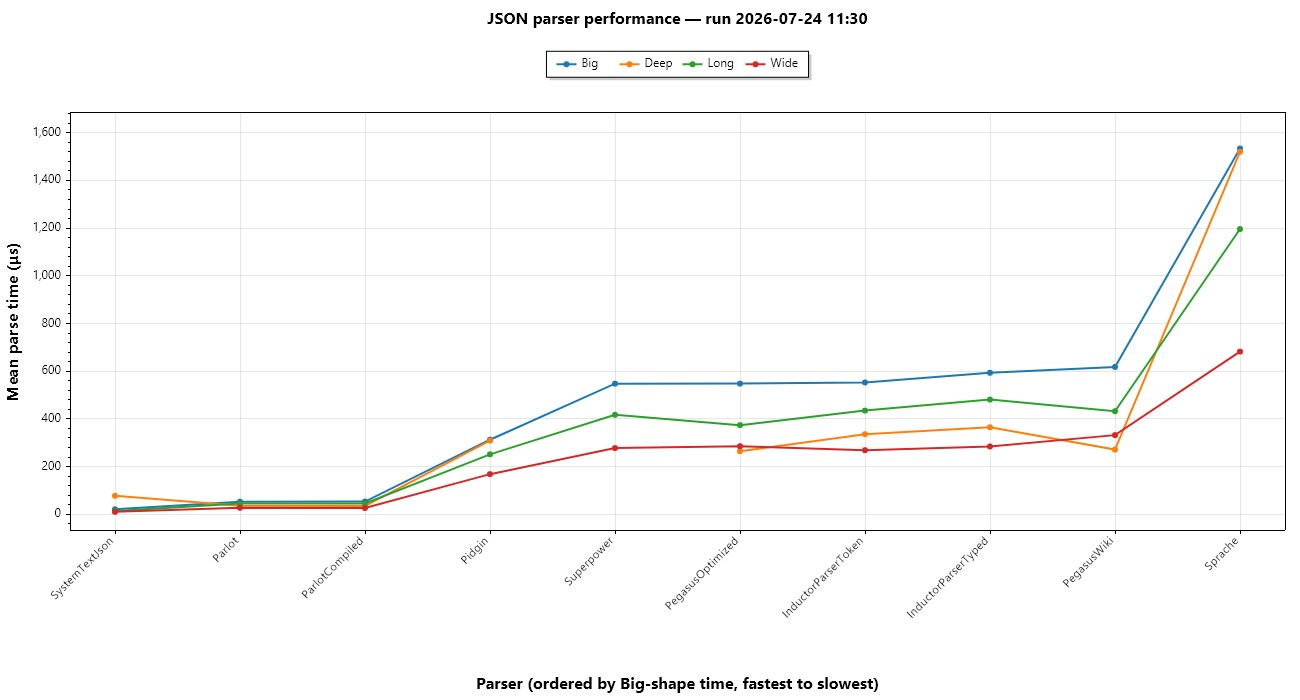
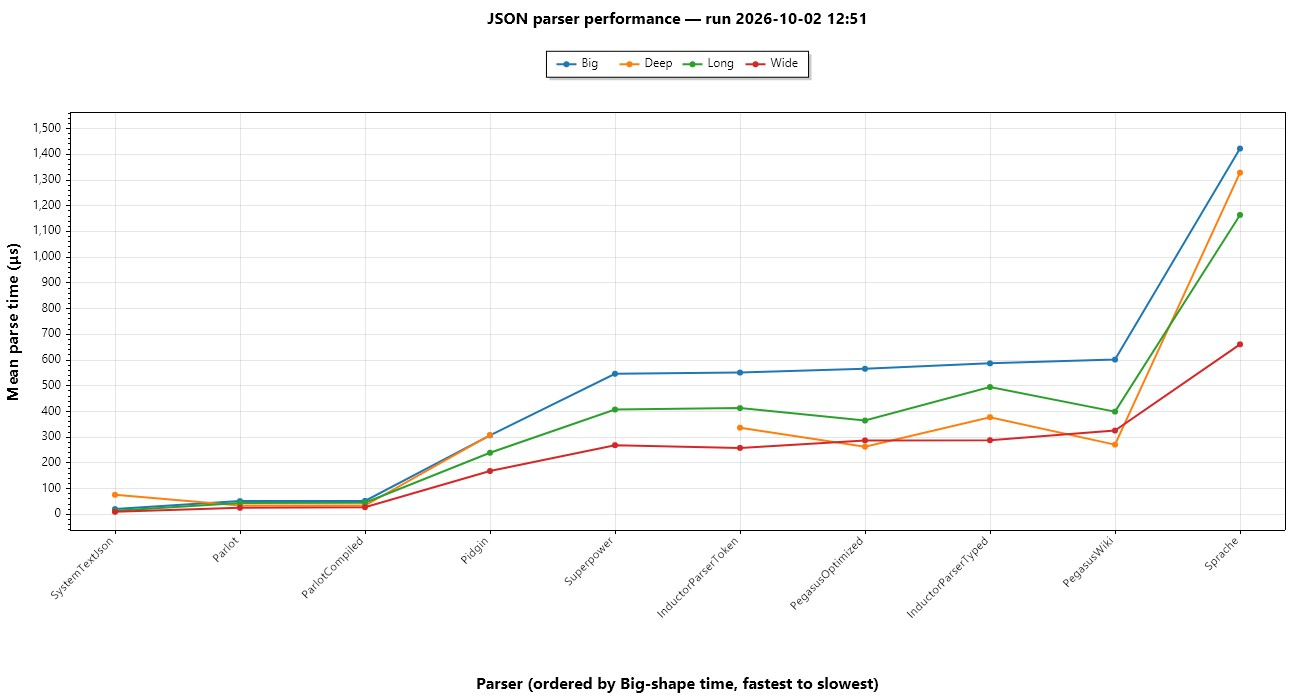
Spec: benchmark chart rerun, write-up moves to the end of the nav, doc links
The JSON benchmark chart was last generated in July. This rerun on the
same Arm64 machine and .NET 10 lands within noise of the README's
baseline table (Big InductorParserToken 551 vs 553 us, STJ 20.8 vs 20.6
us), so the table stays as the regression reference the README says it
is and only the chart's data and timestamp move. The spot-check passed
before the run, so every row times a full-input parse. One row,
BigJson_PegasusOptimized, came back with an error margin as large as
its mean (566 +/- 566 us), which is ShortRun noise rather than a real
change and only swaps it one place with InductorParserToken in the
chart's ordering.

How I Built This moves from before the API entry to the far right of
the top navigation, after GitHub, so the docs navigation reads guides,
reference, architecture, API, and then the two outward links.

Three docs gain a link where they named something without pointing at
it: Unicode Internals' Position Tracking section now says every unit
points into the original input and links the position mapping doc,
Code Architecture links the C++ template library it says the port
started from, and Unicode Gotchas links UAX #31 where it introduces it.

diff --git a/src/Benchmarks/performance-chart.html b/src/Benchmarks/performance-chart.html
@@ -17,7 +17,7 @@
 <body>
 
 <h1>JSON parser performance by shape</h1>
-<div class="subtitle">Mean parse time in microseconds. Lower is better. BenchmarkDotNet ShortRun, .NET 10 on Arm64. Four lines, one per input shape (Big, Deep, Long, Wide). Regenerated automatically on every benchmark run. <strong>Run: 2026-07-24 11:30</strong></div>
+<div class="subtitle">Mean parse time in microseconds. Lower is better. BenchmarkDotNet ShortRun, .NET 10 on Arm64. Four lines, one per input shape (Big, Deep, Long, Wide). Regenerated automatically on every benchmark run. <strong>Run: 2026-10-02 12:51</strong></div>
 
 <div class="chart-wrapper">
   <canvas id="chart"></canvas>
@@ -42,8 +42,8 @@ const labels = [
   "ParlotCompiled",
   "Pidgin",
   "Superpower",
-  "PegasusOptimized",
   "InductorParserToken",
+  "PegasusOptimized",
   "InductorParserTyped",
   "PegasusWiki",
   "Sprache"
@@ -54,7 +54,7 @@ const data = {
   datasets: [
     {
       label: "Big",
-      data: [20.63, 52.48, 53.19, 312.52, 547.67, 547.84, 552.54, 593.38, 617.71, 1533.70],
+      data: [20.81, 51.75, 52.49, 307.31, 546.78, 551.35, 566.21, 587.29, 601.96, 1422.18],
       borderColor: "#1f77b4",
       backgroundColor: "#1f77b4",
       borderWidth: 2,
@@ -62,7 +62,7 @@ const data = {
     },
     {
       label: "Deep",
-      data: [77.16, 35.30, 34.62, 308.72, null, 264.57, 335.58, 364.77, 271.30, 1520.20],
+      data: [76.31, 34.29, 34.70, 308.19, null, 337.21, 263.15, 378.11, 271.32, 1328.47],
       borderColor: "#ff7f0e",
       backgroundColor: "#ff7f0e",
       borderWidth: 2,
@@ -71,7 +71,7 @@ const data = {
     },
     {
       label: "Long",
-      data: [13.70, 45.01, 45.11, 251.20, 417.04, 373.65, 434.72, 480.92, 431.95, 1196.31],
+      data: [13.92, 44.46, 45.65, 239.75, 407.81, 413.26, 364.92, 495.12, 399.71, 1164.16],
       borderColor: "#2ca02c",
       backgroundColor: "#2ca02c",
       borderWidth: 2,
@@ -79,7 +79,7 @@ const data = {
     },
     {
       label: "Wide",
-      data: [10.06, 27.15, 26.15, 168.14, 277.47, 285.26, 268.70, 284.11, 331.72, 682.02],
+      data: [10.10, 25.78, 28.16, 168.80, 269.19, 258.59, 287.61, 288.42, 325.95, 661.17],
       borderColor: "#d62728",
       backgroundColor: "#d62728",
       borderWidth: 2,
@@ -96,7 +96,7 @@ new Chart(document.getElementById("chart"), {
     maintainAspectRatio: false,
     interaction: { mode: "index", intersect: false },
     plugins: {
-      title: { display: true, text: "JSON parser performance — run 2026-07-24 11:30", font: { size: 14 }, padding: { top: 4, bottom: 12 } },
+      title: { display: true, text: "JSON parser performance — run 2026-10-02 12:51", font: { size: 14 }, padding: { top: 4, bottom: 12 } },
       legend: { position: "top", labels: { boxWidth: 14, padding: 14 } },
       tooltip: {
         callbacks: {

diff --git a/docs/UnicodeGotchas.md b/docs/UnicodeGotchas.md
@@ -6,7 +6,7 @@ This doc lists the common gotchas, what goes wrong, and the idiomatic workaround
 
 The identifier rule every tutorial writes, a letter then letters or digits, fails on real-world input in two ways. Hand-rolled as `And(OneOf(TokenSet.Letters), ZeroOrMore(OneOf(TokenSet.Letters | TokenSet.Digits)))`, it rejects Hindi `हिन्दी` and Thai `กำ`. In those scripts one visible letter is several runes (a base character plus a vowel mark), the lexer hands that letter back as one multi-rune token, and a rune set like `TokenSet.Letters` never contains a multi-rune token. Letter-or-digit is also the wrong test character by character: it turns away `foo_bar` (underscore is legal after the first character in virtually every language) and lets in the Arabic ligature `ﷺ` (U+FDFA), a letter by Unicode's General_Category that identifier specs exclude on purpose, because its compatibility decomposition is a full multi-word phrase.
 
-**Fix.** Use `Rules.Identifier()`. Matching "an identifier" the way a programming language does is a solved Unicode problem, but each programming language still gets to define its own profile. Unicode Standard Annex #31 (UAX #31), the identifier spec, defines two useful properties, `XID_Start` (can begin an identifier) and `XID_Continue` (can appear after the first character), and the default identifier shape is `XID_Start XID_Continue*`. Python and Rust build on this shape. C#, ECMAScript, Java, and Swift have similar but not identical rules. The parser exposes the UAX #31-shaped rule as `Rules.Identifier()`:
+**Fix.** Use `Rules.Identifier()`. Matching "an identifier" the way a programming language does is a solved Unicode problem, but each programming language still gets to define its own profile. [Unicode Standard Annex #31 (UAX #31)](https://www.unicode.org/reports/tr31/), the identifier spec, defines two useful properties, `XID_Start` (can begin an identifier) and `XID_Continue` (can appear after the first character), and the default identifier shape is `XID_Start XID_Continue*`. Python and Rust build on this shape. C#, ECMAScript, Java, and Swift have similar but not identical rules. The parser exposes the UAX #31-shaped rule as `Rules.Identifier()`:
 
 ```csharp
 var name = Identifier().As("name");

diff --git a/docs/CodeArchitecture.md b/docs/CodeArchitecture.md
@@ -2,7 +2,7 @@
 
 ## Why Port
 
-The Inductor Parser started life as a C++ template library written for Exospecies. It runs on Windows, macOS, and iOS and has been in production for years. The goal now is to get the same parser running inside a Unity game, including on WebGL, without losing what made the original nice to use: a small, readable, debuggable PEG parser where grammar rules read like the thing you're trying to parse.
+The Inductor Parser started life as a [C++ template library](https://github.com/EricZinda/InductorParser) written for Exospecies. It runs on Windows, macOS, and iOS and has been in production for years. The goal now is to get the same parser running inside a Unity game, including on WebGL, without losing what made the original nice to use: a small, readable, debuggable PEG parser where grammar rules read like the thing you're trying to parse.
 
 Unity can host C++ as a native plugin on some targets, but not on WebGL (which compiles through Emscripten and has no native plugin story worth relying on) and not cleanly on iOS (where you'd be fighting the build system, App Store rules, and the IL2CPP linker). The path that actually works across every Unity target is to rewrite the parser in C# and ship it as a managed DLL.
 

diff --git a/docs/UnicodeInternalsArchitecture.md b/docs/UnicodeInternalsArchitecture.md
@@ -82,6 +82,8 @@ The line and both columns also have one-based counterparts for human-facing mess
 
 The char index is stored on the parse result. Every other unit is computed lazily from it and the original input the one time it's asked for, so a caller only pays for the units it actually reads.
 
+Every one of these units points into the original input, even when the parser matched against a normalized copy of it. How a position in the normalized text gets mapped back to the original is its own topic, covered in [Mapping Positions After Normalization](MappingPositionsAfterNormalization.md).
+
 `ParseResult` exposes the minimum useful set:
 
 ```csharp
